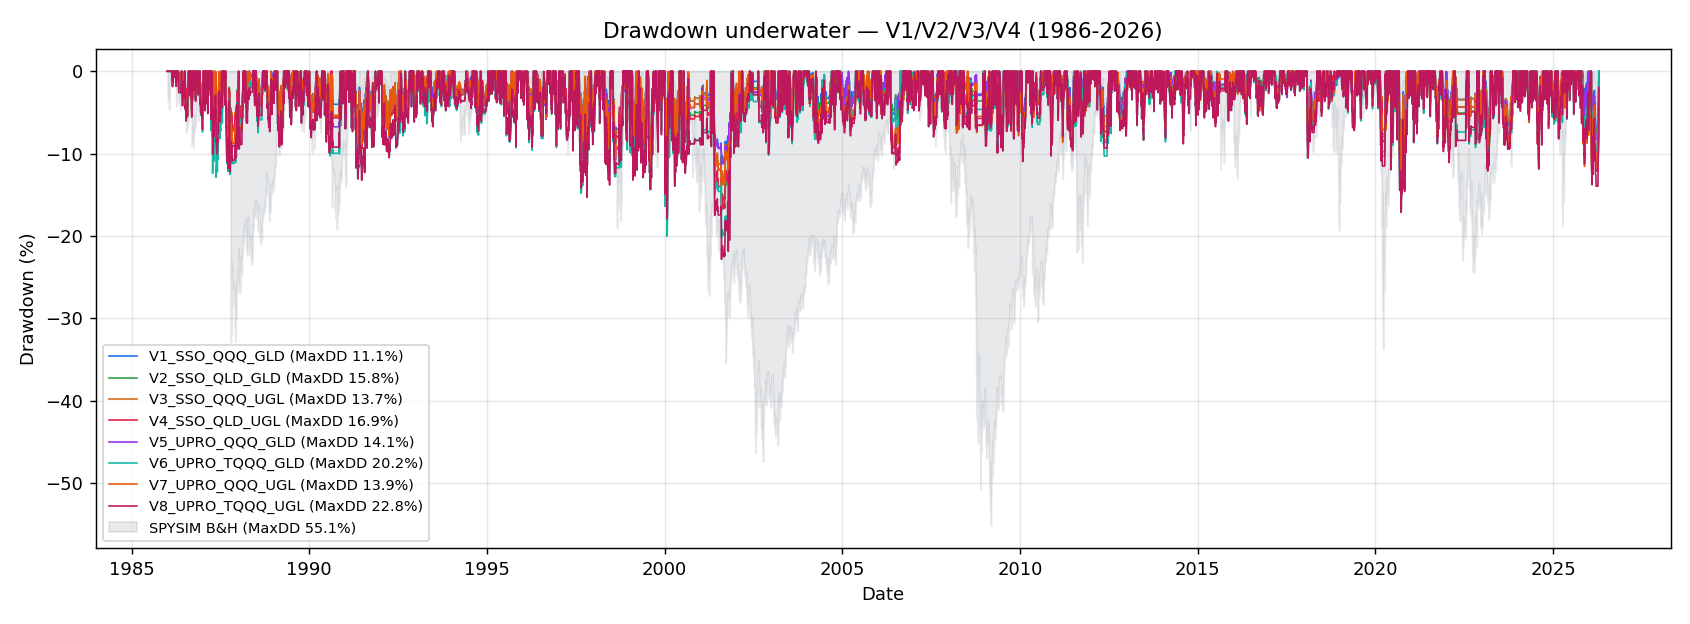
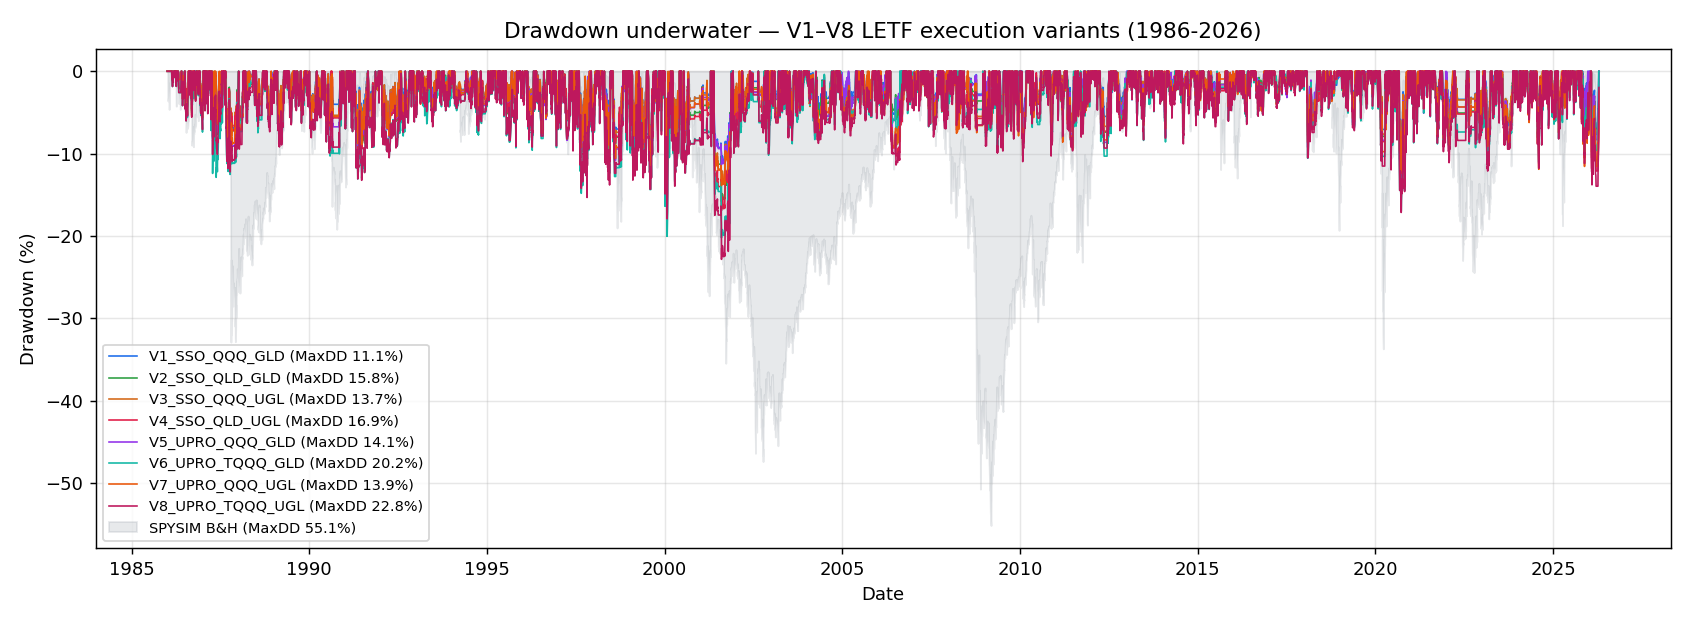
self-improve: iter 37 — iteration 37

Changed region(s): [[0.2769, 0.0304, 0.7385, 0.0609]]

diff --git a/scripts/run_plano_b_variants_letf_execution.py b/scripts/run_plano_b_variants_letf_execution.py
@@ -264,7 +264,7 @@ def _plot(
     ax.fill_between(spy_eq.index, spy_dd.values, 0.0,
                     alpha=0.2, color="#8b949e",
                     label=f"SPYSIM B&H (MaxDD {spy_m['max_drawdown_pct']:.1f}%)")
-    ax.set_title("Drawdown underwater — V1/V2/V3/V4 (1986-2026)")
+    ax.set_title("Drawdown underwater — V1–V8 LETF execution variants (1986-2026)")
     ax.set_xlabel("Date")
     ax.set_ylabel("Drawdown (%)")
     ax.legend(loc="lower left", fontsize=8)

diff --git a/reports/phase3_5a_v2/v2_l2_gayed_transported_cfd/gayed_lrs_L3_off_cash.md b/reports/phase3_5a_v2/v2_l2_gayed_transported_cfd/gayed_lrs_L3_off_cash.md
@@ -1,0 +1,60 @@
+# V2-L2 Gayed-CFD rotation — `gayed_lrs_L3_off_cash` (iter 37)
+
+**Path tag:** [SHORT-HOLD CFD]  |  **Status:** ❌ FAIL (2 gates)
+**Config:** signal=lrs, leverage=3x, off-regime=cash, risk-on=SPY,QQQ, daily close rebalance
+**Window:** 2001-05-14 → 2026-04-14 (6266 bars, 578 regime switches)
+
+## Split metrics
+
+| Split | Range | n_bars | Sharpe | CAGR | MaxDD | Final equity |
+|-------|-------|-------:|-------:|-----:|------:|-------------:|
+| IS | 2001-05-14 → 2017-12-31 | 4185 | 1.937 | 77.67% | -18.06% | 13979.661 |
+| OOS | 2018-01-01 → 2023-12-31 | 1509 | 2.092 | 108.25% | -31.63% | 80.851 |
+| FWD | 2024-01-01 → 2026-04-14 | 572 | 1.911 | 93.39% | -20.56% | 4.469 |
+
+## Walk-forward (8 windows)
+
+- Profitable windows: **1.00** (target ≥ 0.75)
+- Max window drawdown: **31.6%** (cap 25%)
+- Pass: **NO**
+
+## Hold / switch diagnostics
+
+- Median hold: **5.5 days** (target ≥ 3d, V2 spec §1)
+- Total regime switches: 578
+- Switches by ticker: SPY=287, QQQ=291
+
+## Cost breakdown (Pepperstone Razor retail)
+
+- Cumulative transaction cost: **157.352%** of starting equity
+- Cumulative overnight swap: **-66.412%** of starting equity
+- Spread half: 2.0 bps | commission RT: 6.6 bps | slippage RT: 3.0 bps | swap daily long: -0.0050%
+
+## Subset-gate verdict (per-config; PBO/DSR deferred to aggregator)
+
+| Gate | Value | Pass |
+|------|------:|:----:|
+| oos_sharpe_gt_0 | 2.092 | ✅ |
+| fwd_sharpe_gt_0 | 1.911 | ✅ |
+| wf_pass | 6/8 | ❌ |
+| median_hold_ge_3d | 5.5d | ✅ |
+| oos_cagr_ge_30pct | 108.2% | ✅ |
+| oos_sharpe_ge_2 | 2.092 | ✅ |
+| oos_maxdd_le_25pct | -31.6% | ❌ |
+
+**Failed gates:** wf_pass, oos_maxdd_le_25pct
+
+## Last-bar positions
+
+| Leg | Weight |
+|-----|------:|
+| SPY | 1.5000 |
+| QQQ | 1.5000 |
+
+## Citations
+
+- Regime rotation + MA filter + leverage discipline: `[leverage_for_the_long_run, p.7, p.11, p.13, p.14, p.16, p.17, p.21]`.
+- Leverage cap cross-check via PoR: `[leverage_space, Vince]`, `[math_money_mgmt, Vince]`.
+- Carver CFD cost model + risk budget: `[systematic_trading, ch.8-9]`.
+- Walk-forward 6/8 gate + 25% DD cap: `[advances_fin_ml, ch.11]`.
+- Retail Pepperstone Razor cost model: Phase 3.5a-V2 spec §3.
